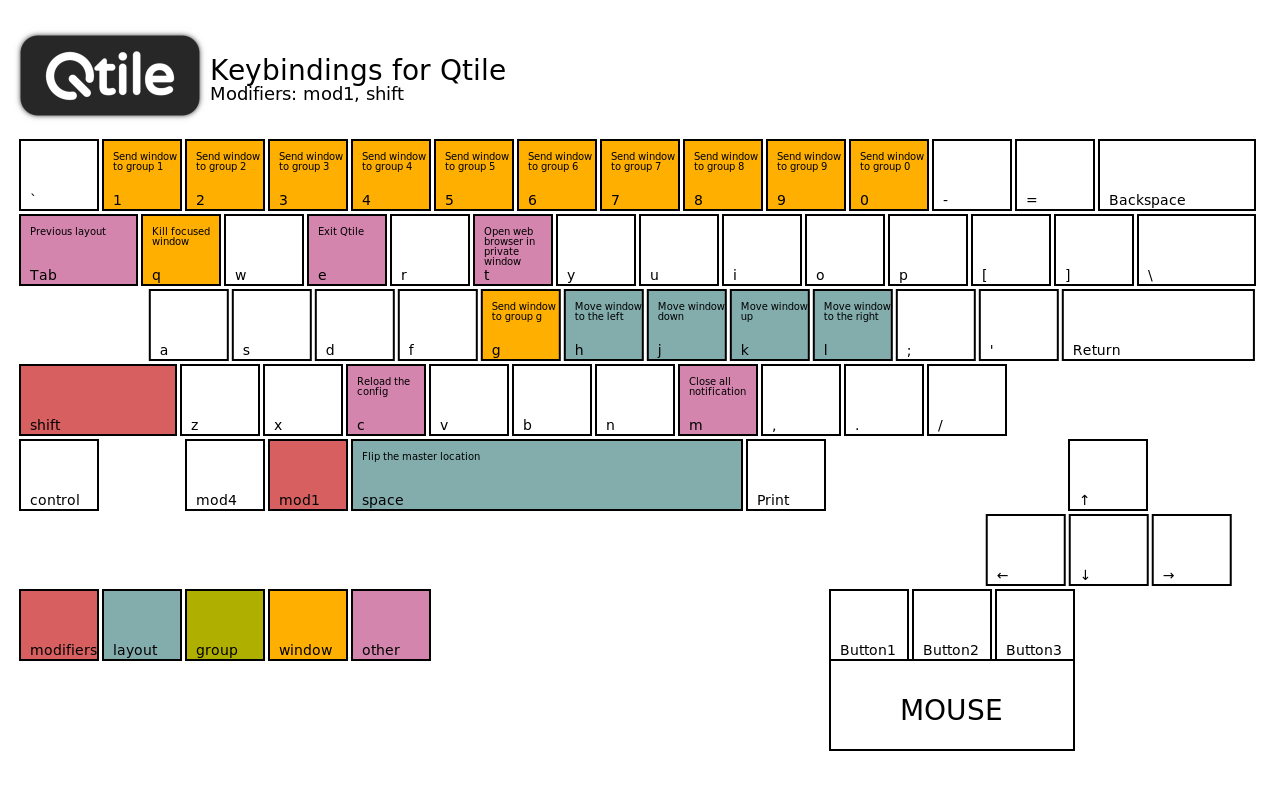
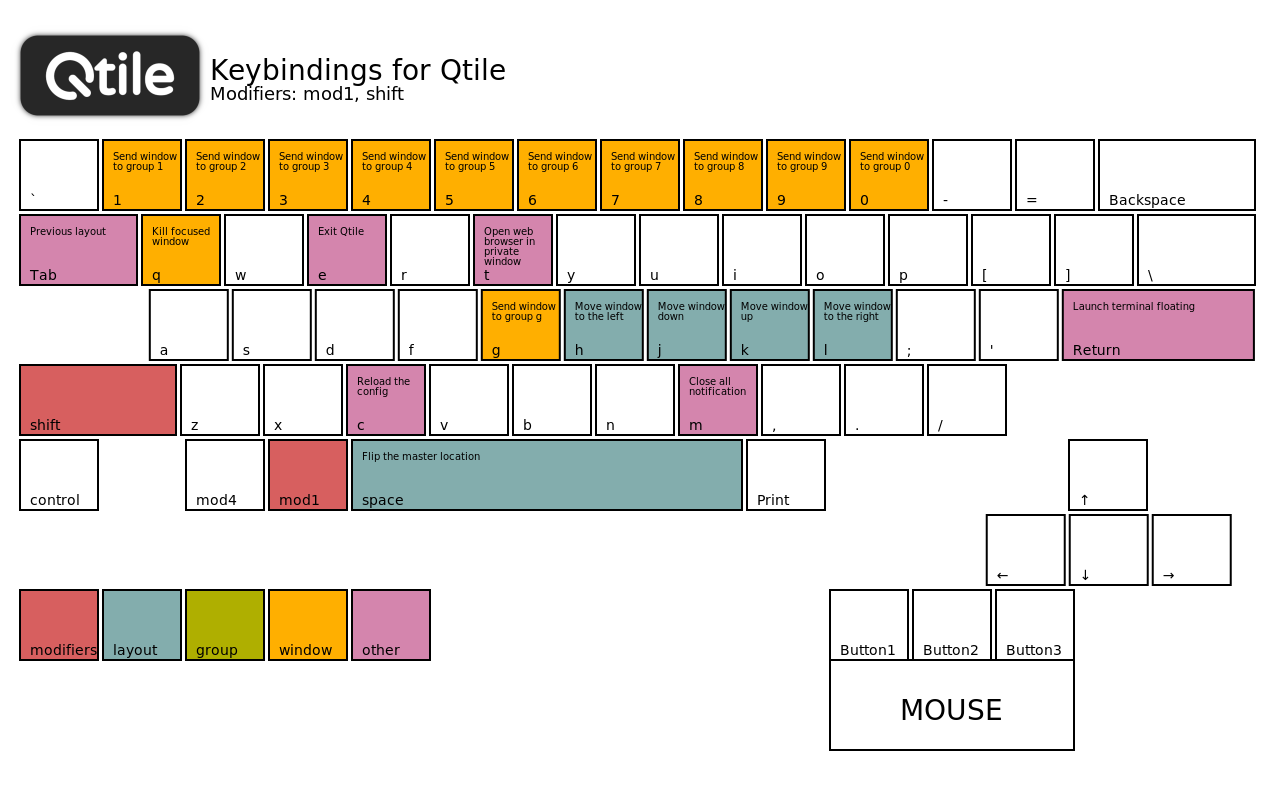
Added floating terminal

Changed region(s): [[0.8125, 0.3438, 1.0, 0.4688]]

diff --git a/qtile/config.py b/qtile/config.py
@@ -39,7 +39,7 @@ mod = "mod1"
 terminal = "alacritty"
 web = "firefox"
 file = "ranger"
-music = "ncmpc"
+music = "ncmpcpp"
 monitor = "btop"
 
 keys = [
@@ -70,6 +70,7 @@ keys = [
     Key([mod, "shift"], "space", lazy.layout.flip(),                      desc="Flip the master location"),
 
     Key([mod], "Return", lazy.spawn(terminal),                            desc="Launch terminal"),
+    Key([mod, "shift"], "Return", lazy.spawn("alacritty --class alacritty,floating"), desc="Launch terminal floating"),
     # Toggle between different layouts as defined below
     Key([mod], "Tab", lazy.next_layout(),                                 desc="Next layout"),
     Key([mod, "shift"], "Tab", lazy.prev_layout(),                        desc="Previous layout"),
@@ -117,7 +118,7 @@ keys = [
     # Floating
     Key([mod], "F1", lazy.spawn("alacritty --class ranger,floating -e ranger"), desc="Open ranger floating"),
     Key([mod], "F2", lazy.spawn("alacritty --class btop,floating -e btop"), desc="Open btop floating"),
-    Key([mod], "F3", lazy.spawn("alacritty --class ncmpc,floating -e ncmpc"), desc="Open ncmpc floating"),
+    Key([mod], "F3", lazy.spawn("alacritty --class ncmpcpp,floating -e ncmpcpp"), desc="Open ncmpcpp floating"),
     Key([mod], "F4", lazy.spawn("screenkey"),                              desc="Open screenkey for screensharing"),
     Key([mod, "shift"], "F4", lazy.spawn("killall screenkey"),             desc="Close screenkey"),
 
